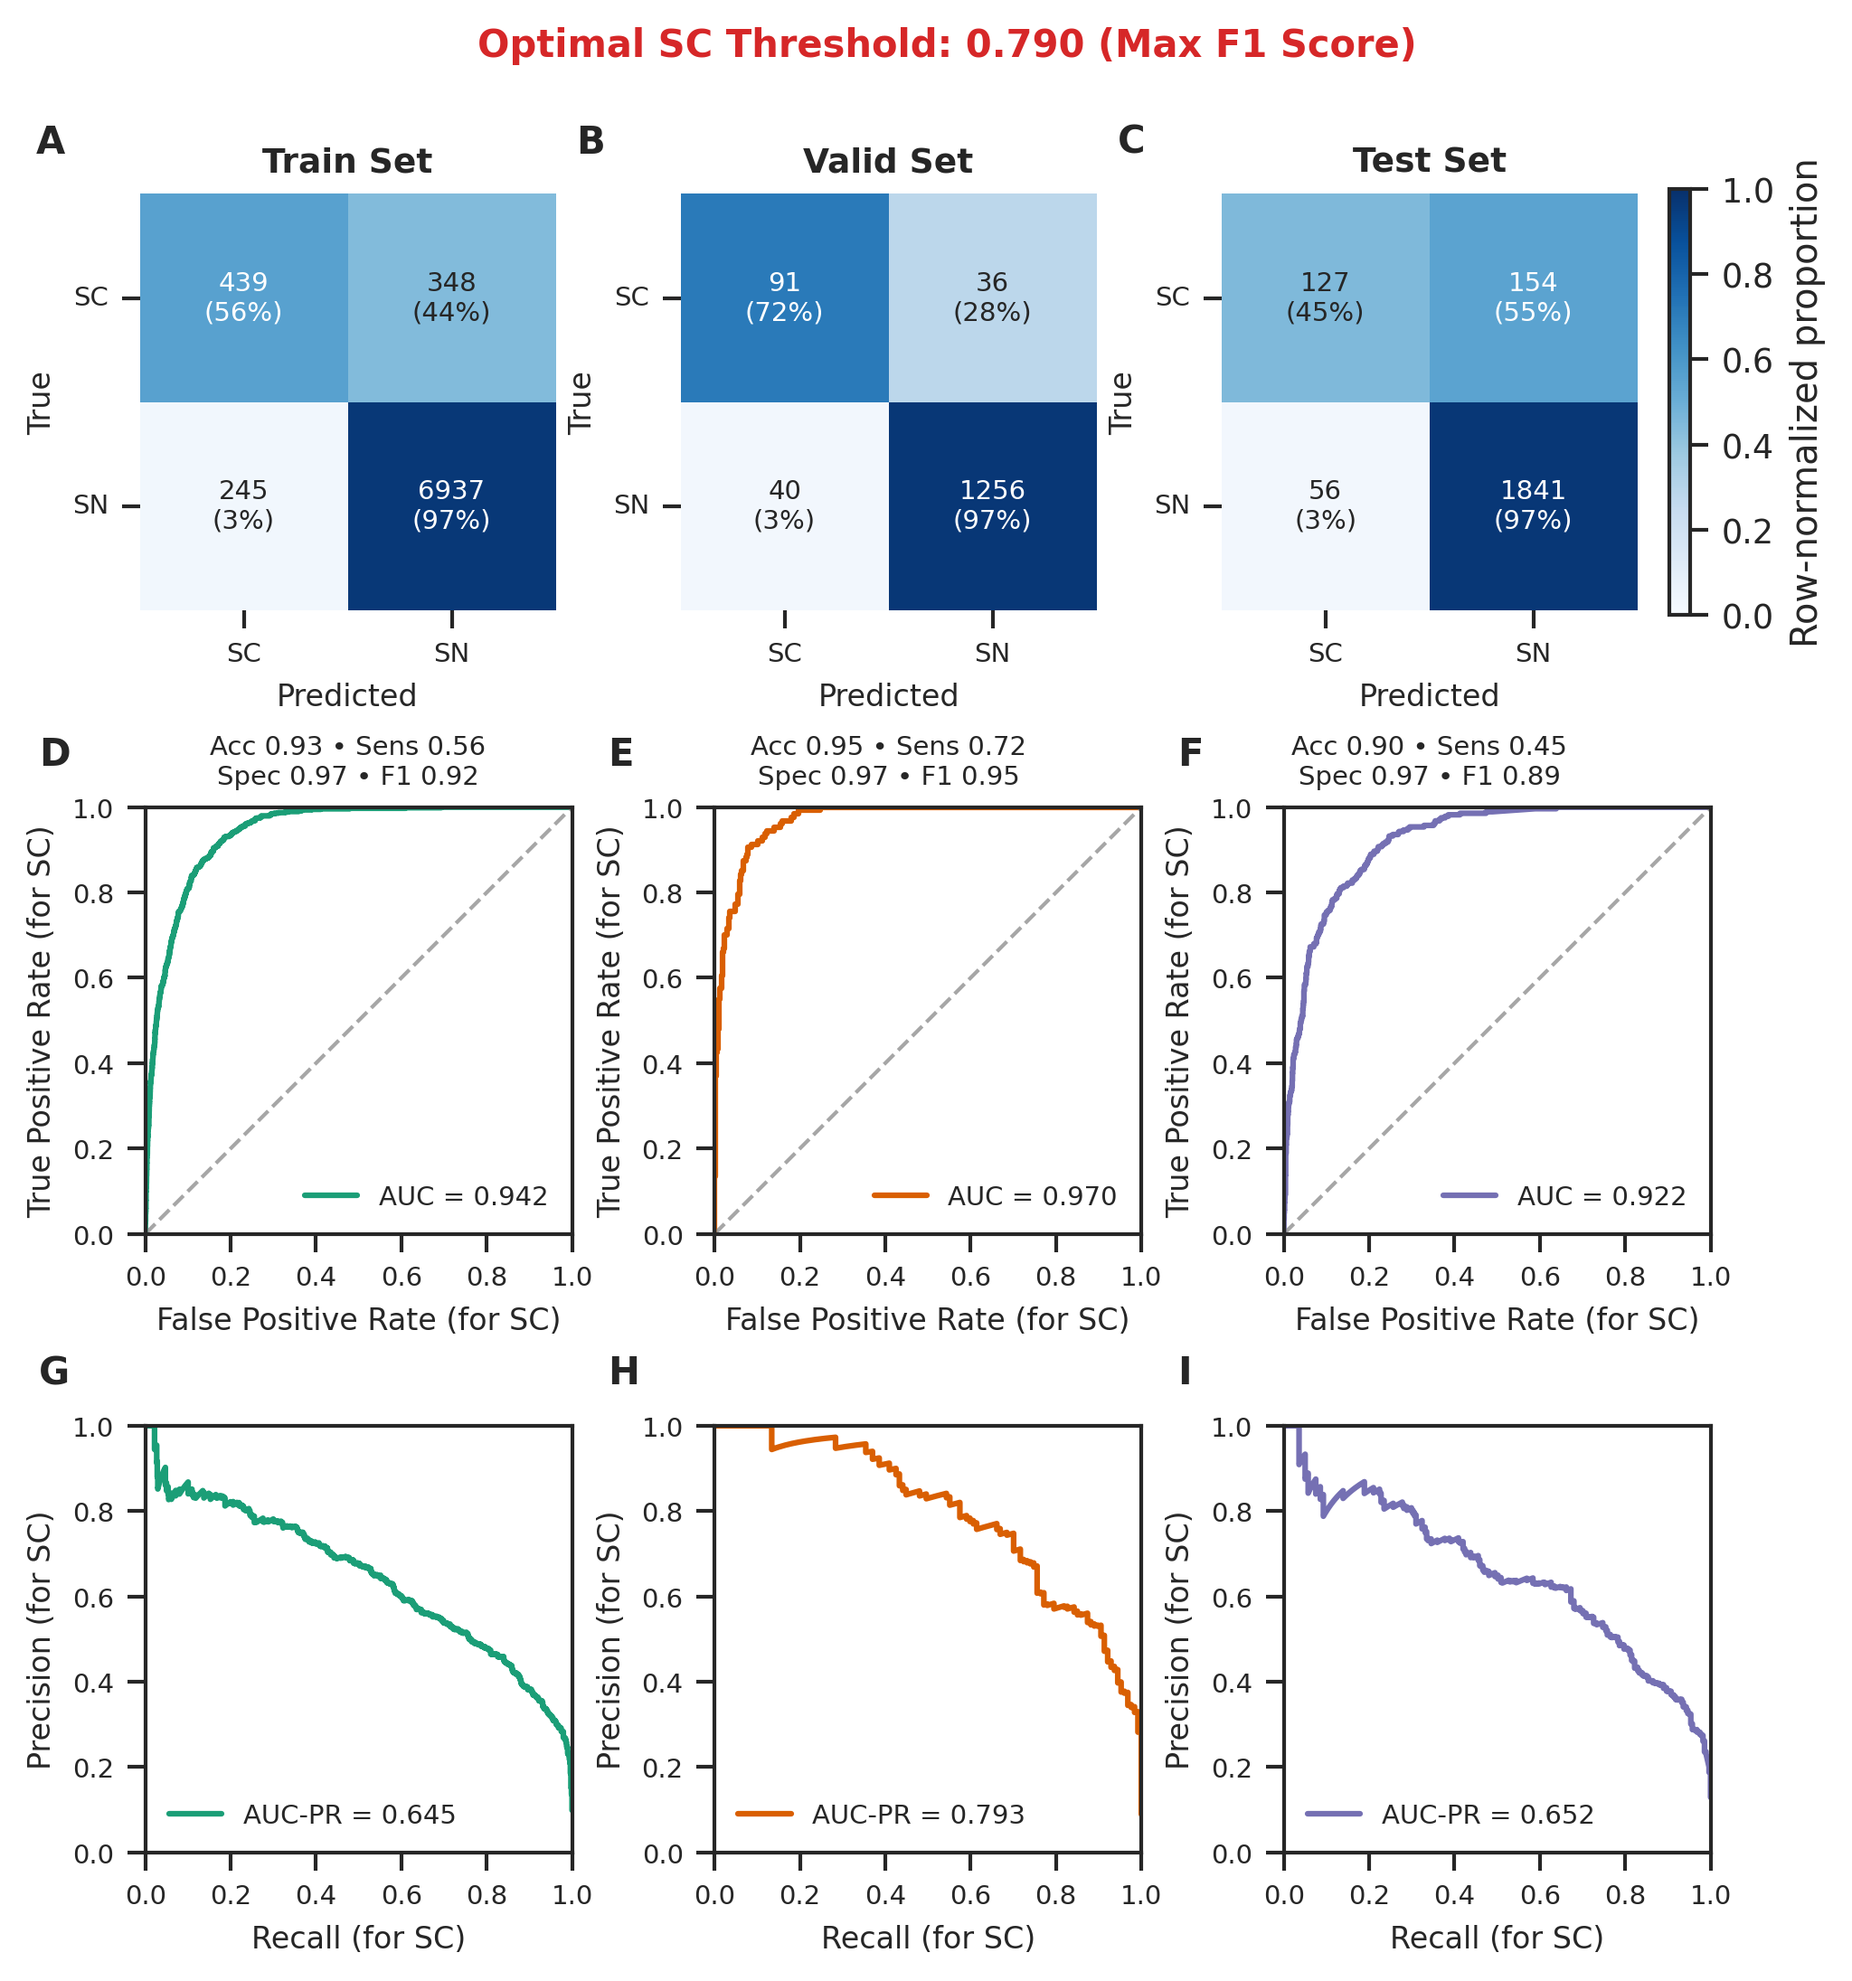
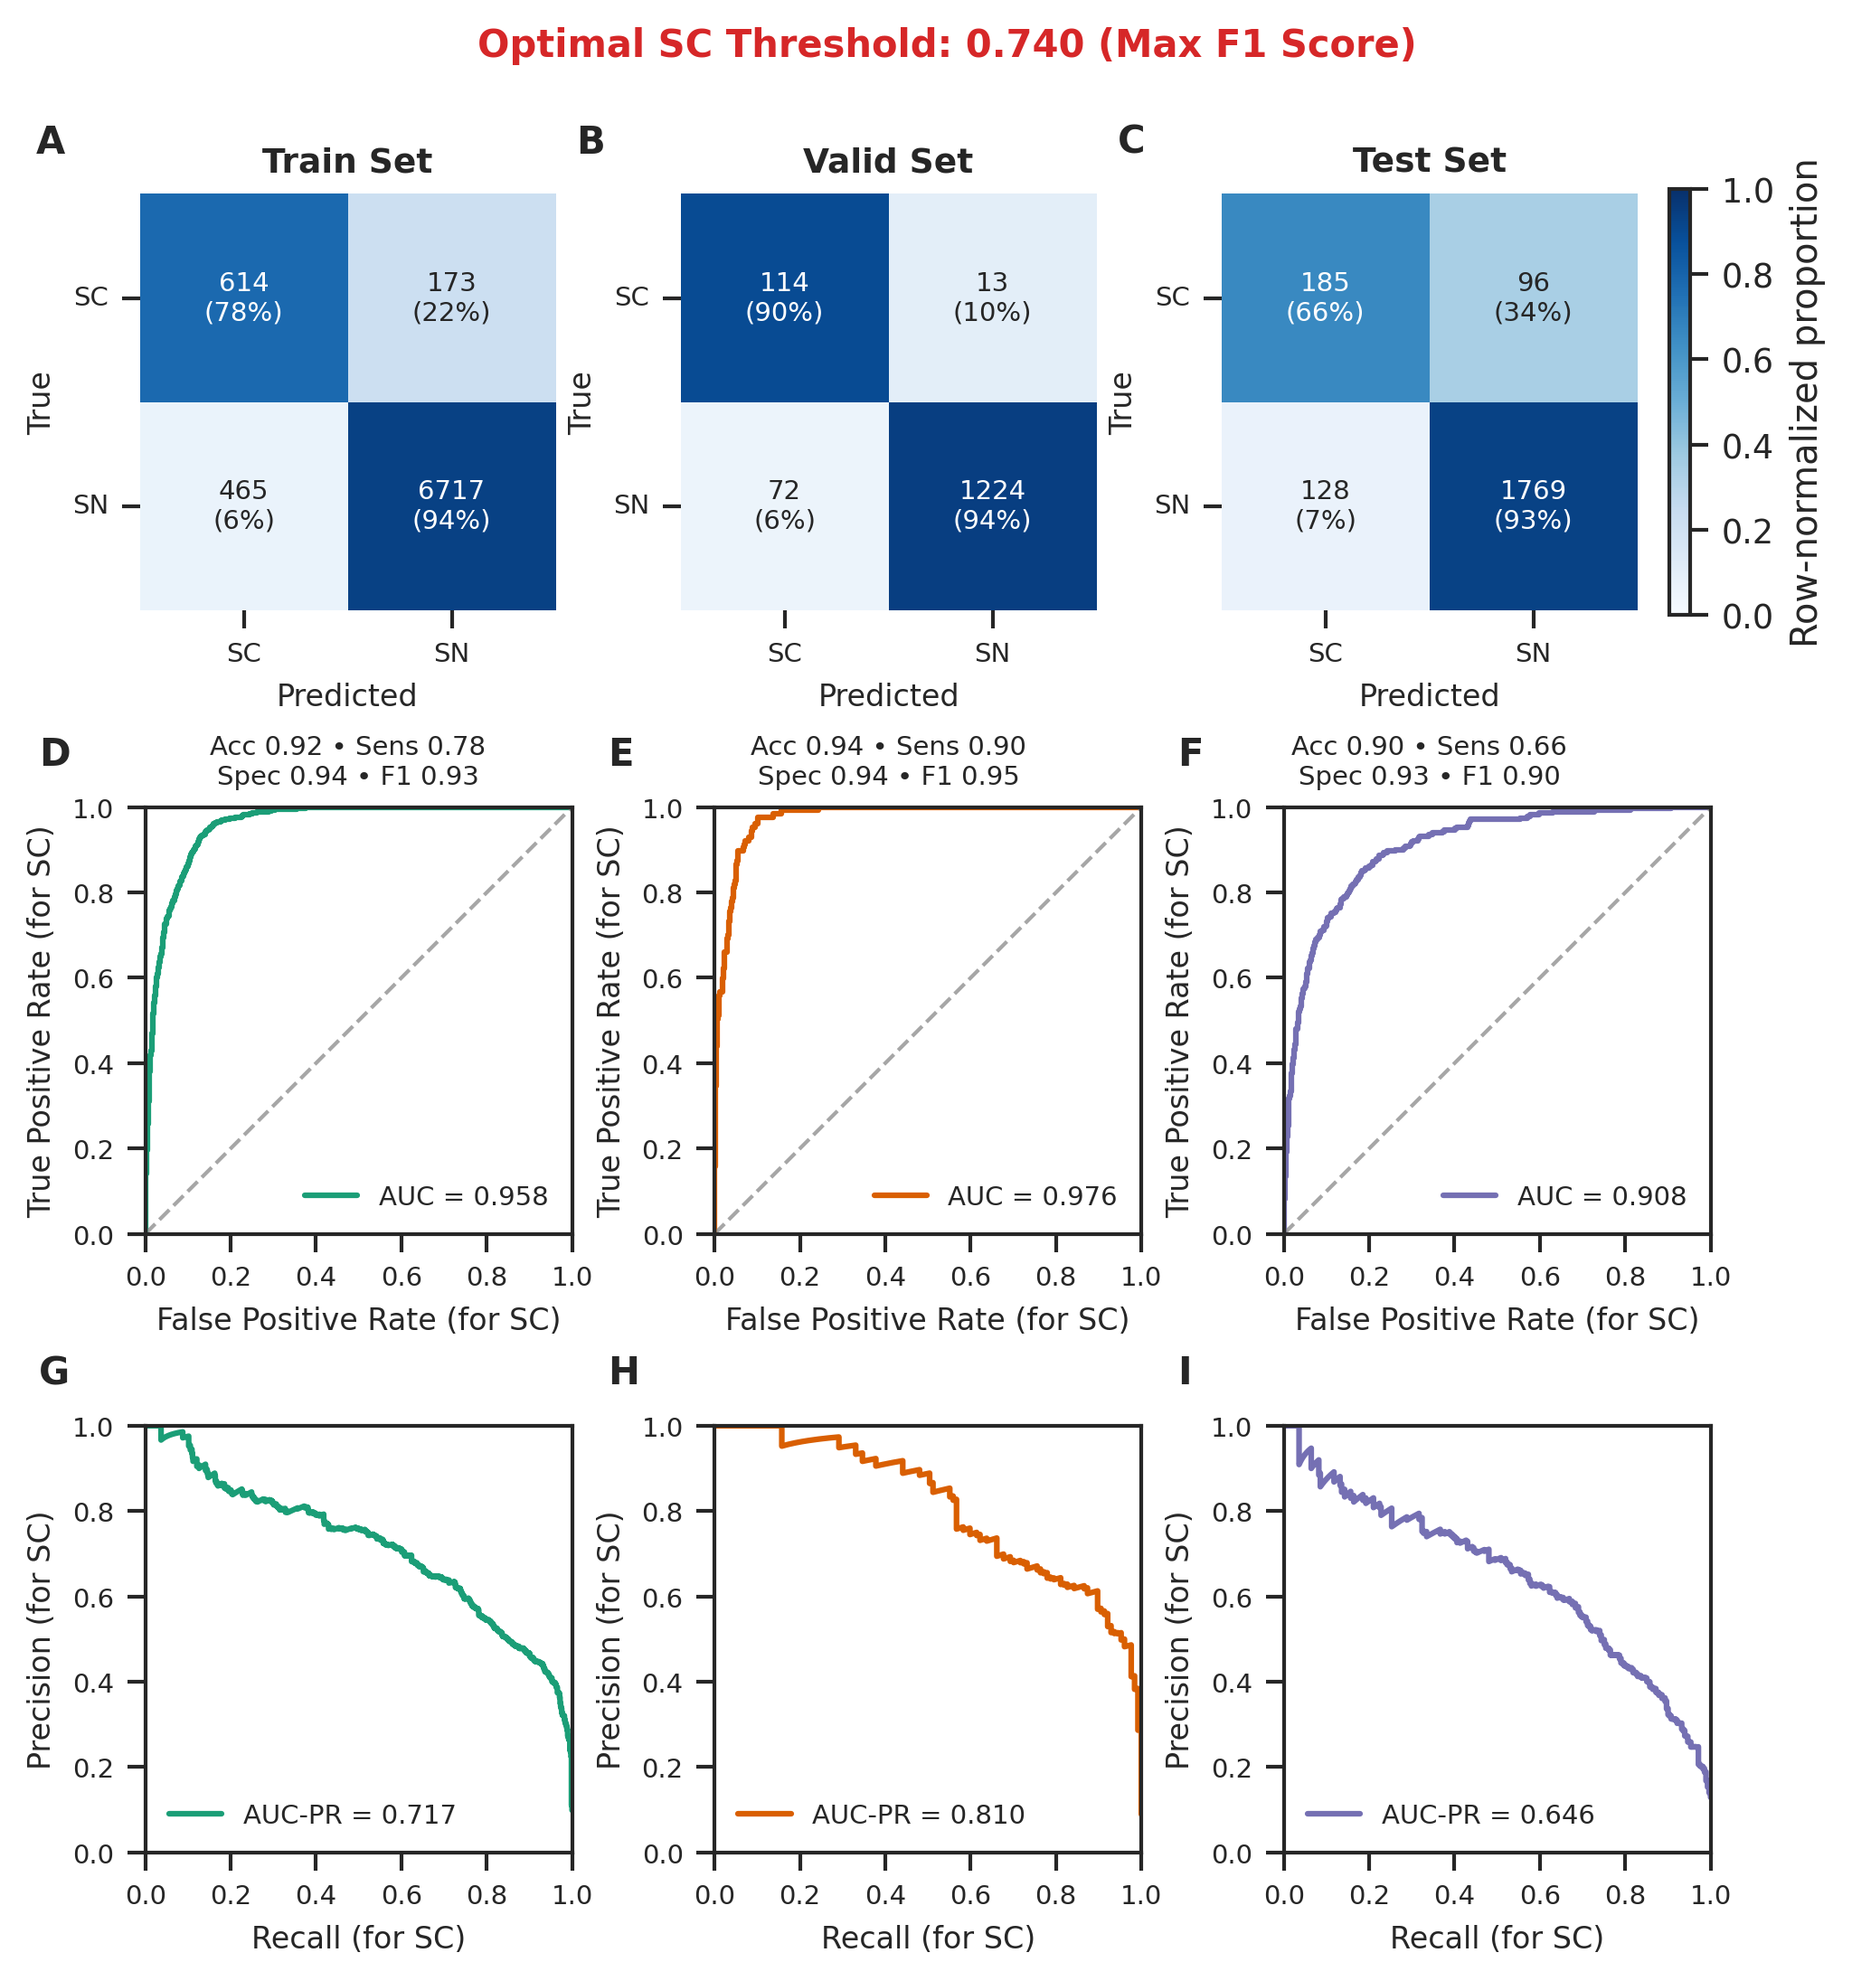
création de la matrice de confusion

diff --git a/figures/figure_3.py b/figures/figure_3.py
@@ -1,0 +1,76 @@
+import os
+import sys
+import pandas as pd
+import numpy as np
+import matplotlib.pyplot as plt
+from sklearn.metrics import confusion_matrix, roc_curve, auc, ConfusionMatrixDisplay
+
+project_root = os.path.abspath(os.path.join(os.path.dirname(__file__), ".."))
+if project_root not in sys.path:
+    sys.path.insert(0, project_root)
+
+inference_csv = os.path.join(project_root, "dataset/inference-test-externe.csv")
+ground_truth_csv = os.path.join(project_root, "dataset/test-externe.csv")
+output_figure = os.path.join(project_root, "figures/figure_3.png")
+
+def main():
+    print("Generating Figure 3...")
+    if not os.path.exists(inference_csv) or not os.path.exists(ground_truth_csv):
+        print(f"Missing CSV files for plotting:\n- {inference_csv}\n- {ground_truth_csv}")
+        return
+        
+    df_pred = pd.read_csv(inference_csv)
+    if 'SC' in df_pred.columns and 'SN' in df_pred.columns:
+        df_pred = df_pred[(df_pred['SC'] + df_pred['SN']) >= 100]
+    df_gt = pd.read_csv(ground_truth_csv)
+    
+    # Safe string conversion to merge patient IDs correctly
+    df_pred['id'] = df_pred['id'].astype(str).str.strip().str[:10]
+    df_gt['id'] = df_gt['id'].astype(str).str.strip().str[:10]
+    
+    df = pd.merge(df_gt, df_pred, on='id', how='inner')
+    
+    if df.empty:
+        print("Merged dataframe is empty! Check the IDs in both CSVs.")
+        return
+        
+    valeur = df['valeur'].values
+    prediction = df['prediction'].values
+    
+    # Classification: > 15% is positive
+    y_true = (valeur > 15).astype(int)
+    y_pred = (prediction > 15).astype(int)
+    y_scores = prediction
+    
+    # Confusion Matrix
+    cm = confusion_matrix(y_true, y_pred)
+    
+    # ROC and AUC
+    fpr, tpr, thresholds = roc_curve(y_true, y_scores)
+    roc_auc = auc(fpr, tpr)
+    
+    fig, (ax1, ax2) = plt.subplots(1, 2, figsize=(14, 6))
+    
+    # Plot 1: Confusion Matrix
+    disp = ConfusionMatrixDisplay(confusion_matrix=cm, display_labels=['Negative (<=15%)', 'Positive (>15%)'])
+    disp.plot(ax=ax1, cmap='Blues', colorbar=False)
+    ax1.set_title('Confusion Matrix')
+    
+    # Plot 2: ROC Curve
+    ax2.plot(fpr, tpr, color='darkorange', lw=2, label=f'ROC curve (AUC = {roc_auc:.3f})')
+    ax2.plot([0, 1], [0, 1], color='navy', lw=2, linestyle='--')
+    ax2.set_xlim([0.0, 1.0])
+    ax2.set_ylim([0.0, 1.05])
+    ax2.set_xlabel('False Positive Rate')
+    ax2.set_ylabel('True Positive Rate')
+    ax2.set_title('Receiver Operating Characteristic')
+    ax2.legend(loc="lower right")
+    ax2.grid(True, linestyle='--', alpha=0.6)
+    
+    plt.tight_layout()
+    plt.savefig(output_figure, dpi=300)
+    plt.close()
+    print(f"Figure saved to {output_figure}")
+
+if __name__ == "__main__":
+    main()

diff --git a/classification/train.py b/classification/train.py
@@ -85,7 +85,7 @@ model = model.to(device)
 criterion = nn.CrossEntropyLoss(weight=class_weights_tensor)
 
 optimizer = optim.Adam(model.parameters(), lr=learning_rate)
-scheduler = optim.lr_scheduler.ReduceLROnPlateau(optimizer, mode='max', factor=0.1, patience=5, verbose=True)
+scheduler = optim.lr_scheduler.ReduceLROnPlateau(optimizer, mode='min', factor=0.1, patience=20, verbose=True)
 
 best_pr_auc = 0.0
 
@@ -168,8 +168,8 @@ for epoch in range(num_epochs):
         torch.save(model.state_dict(), os.path.join(weights_dir, 'classification.pth'))
         print(f'New best model saved based on AUC-PR: {pr_auc:.4f}')
 
-    # Step the scheduler based on the validation AUC-PR
-    scheduler.step(pr_auc)
+    # Step the scheduler based on the validation Loss
+    scheduler.step(epoch_valid_loss)
 
 print("Training complete.")
 
